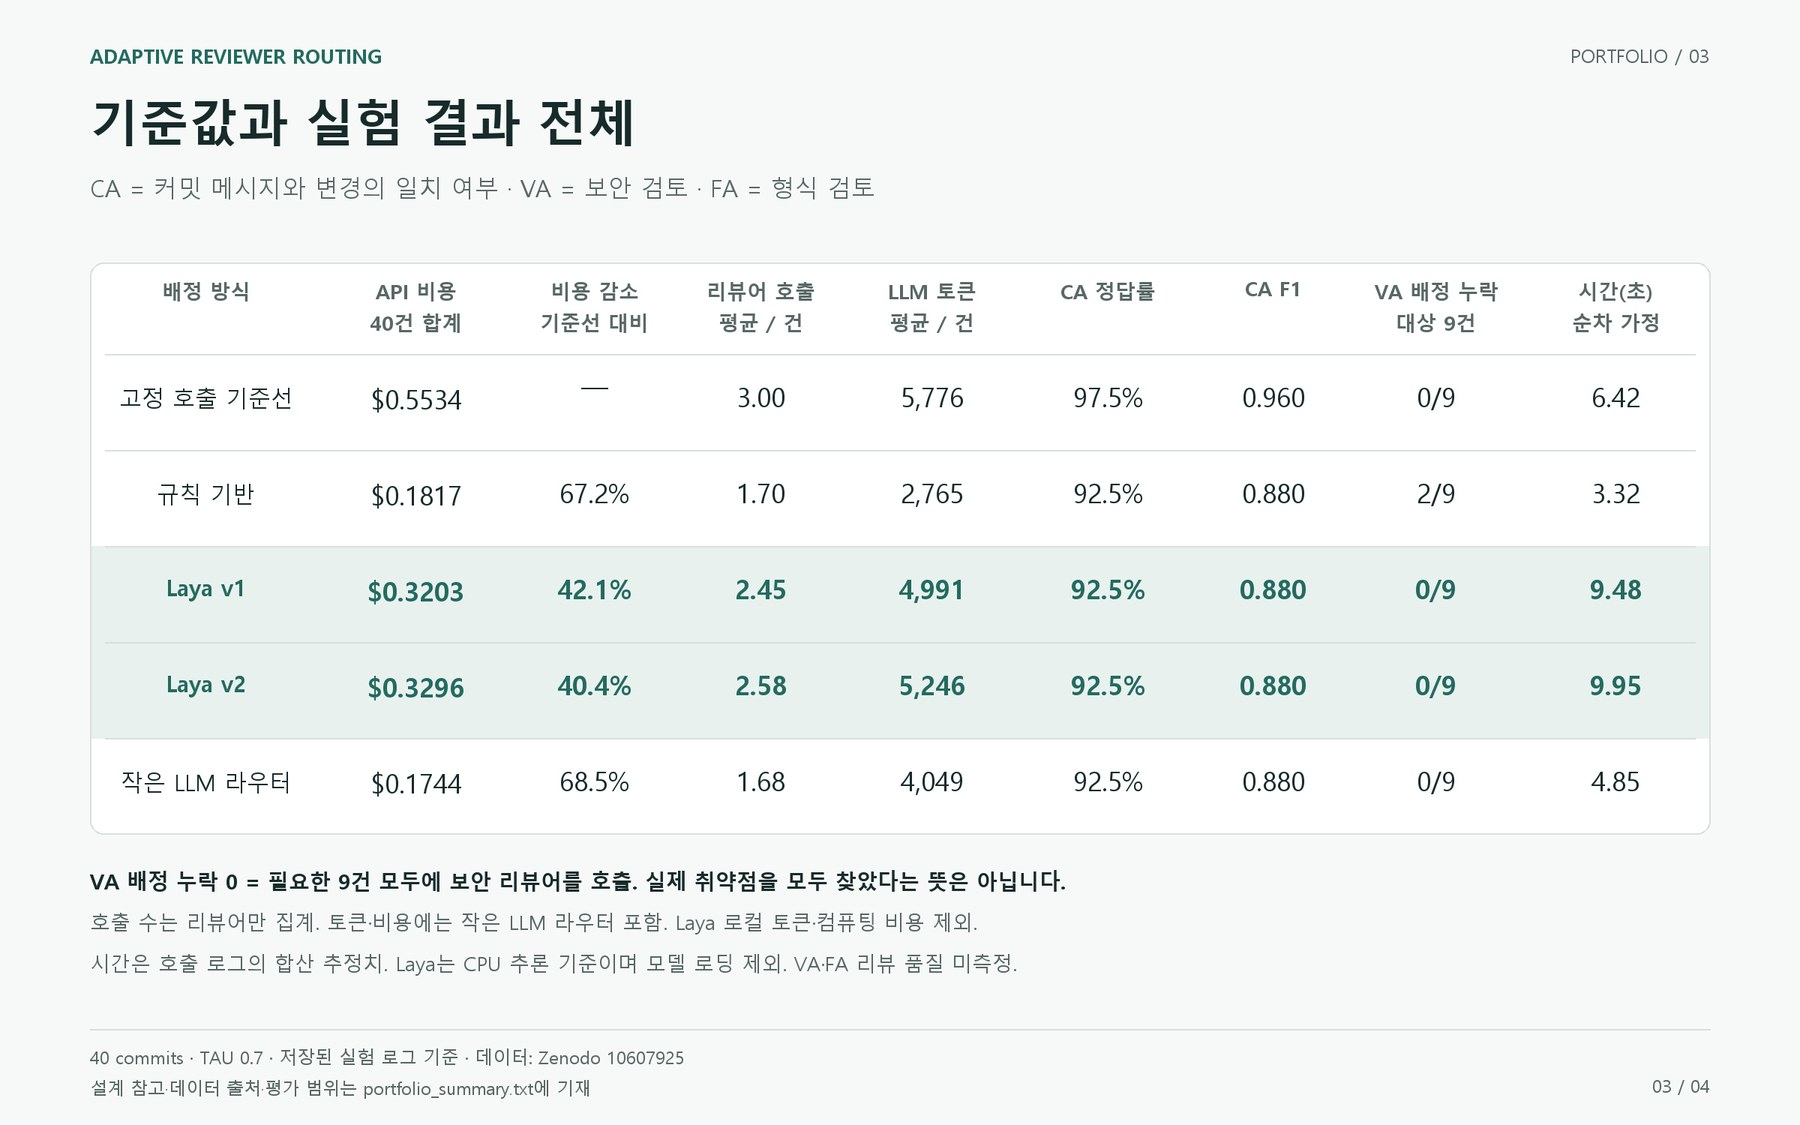
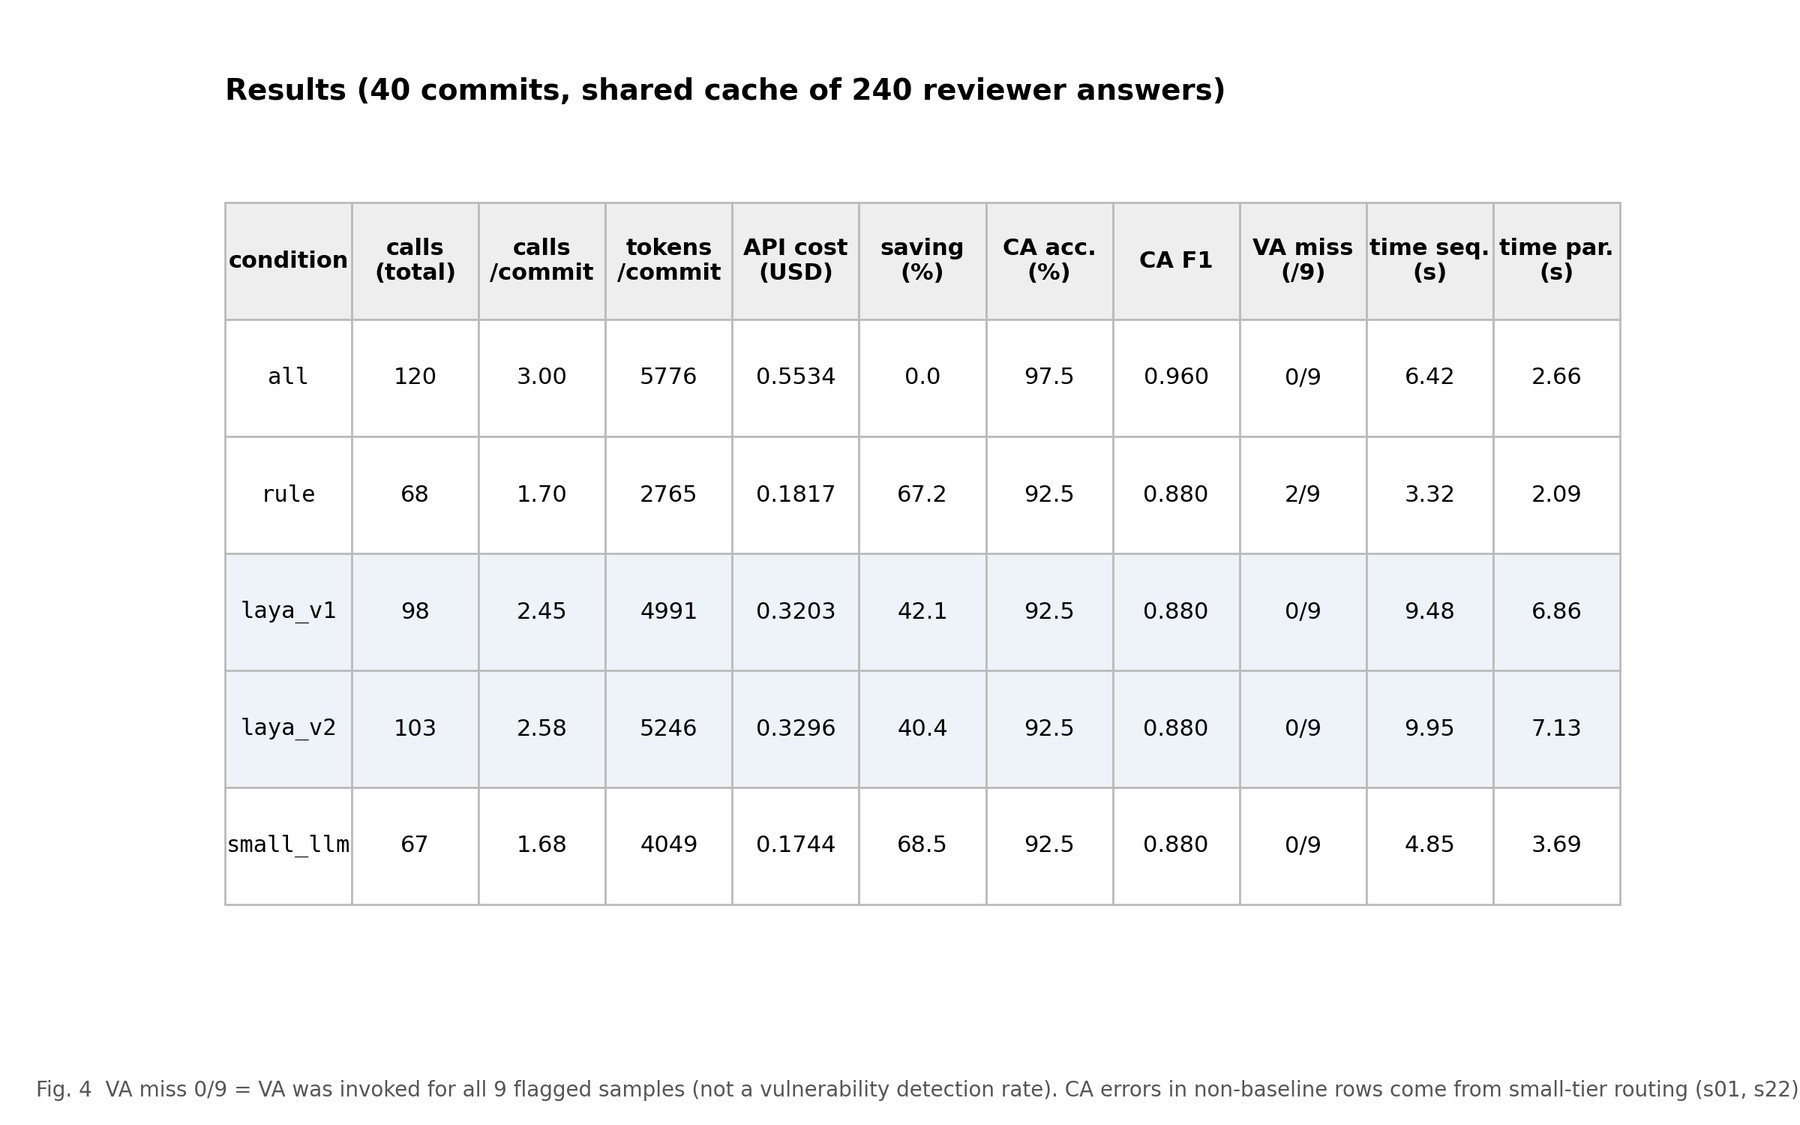
mdf:laya figures redrawn, sarangmoa slide order

diff --git a/src/app/templates/projects.html b/src/app/templates/projects.html
@@ -1366,20 +1366,16 @@
                         <button type="button" data-bs-target="#carouselExampleIndicators_sarangmoa" data-bs-slide-to="8" aria-label="Slide 9"></button>
                         <button type="button" data-bs-target="#carouselExampleIndicators_sarangmoa" data-bs-slide-to="9" aria-label="Slide 10"></button>
                         <button type="button" data-bs-target="#carouselExampleIndicators_sarangmoa" data-bs-slide-to="10" aria-label="Slide 11"></button>
-                        <button type="button" data-bs-target="#carouselExampleIndicators_sarangmoa" data-bs-slide-to="11" aria-label="Slide 12"></button>
                       </div>
                       <div class="carousel-inner">
                         <div class="carousel-item active">
+                          <img src="/static/images/sarangmoa_detail.jpg" class="d-block w-100" alt="Item detail">
+                        </div>
+                        <div class="carousel-item">
                           <img src="/static/images/sarangmoa_service.jpg" class="d-block w-100" alt="Donation service page">
                         </div>
                         <div class="carousel-item">
                           <img src="/static/images/sarangmoa_category.jpg" class="d-block w-100" alt="Donated items by category">
-                        </div>
-                        <div class="carousel-item">
-                          <img src="/static/images/sarangmoa_detail.jpg" class="d-block w-100" alt="Item detail">
-                        </div>
-                        <div class="carousel-item">
-                          <img src="/static/images/sarangmoa_goodex.jpg" class="d-block w-100" alt="Good examples of donations">
                         </div>
                         <div class="carousel-item">
                           <img src="/static/images/sarangmoa_mypage.jpg" class="d-block w-100" alt="My page">
@@ -1474,16 +1470,16 @@
                       </div>
                       <div class="carousel-inner">
                         <div class="carousel-item active">
-                          <img src="/static/images/laya_overview.jpg" class="d-block w-100" alt="API cost reduced 40 to 42 percent with Laya routing">
+                          <img src="/static/images/laya_design.jpg" class="d-block w-100" alt="Experiment design of the review harness">
                         </div>
                         <div class="carousel-item">
-                          <img src="/static/images/laya_flow.jpg" class="d-block w-100" alt="Review harness with a Laya decision step">
+                          <img src="/static/images/laya_cost.jpg" class="d-block w-100" alt="API cost by routing condition">
                         </div>
                         <div class="carousel-item">
-                          <img src="/static/images/laya_cost.jpg" class="d-block w-100" alt="API cost of five assignment strategies">
+                          <img src="/static/images/laya_calls.jpg" class="d-block w-100" alt="Reviewer calls and latency by condition">
                         </div>
                         <div class="carousel-item">
-                          <img src="/static/images/laya_table.jpg" class="d-block w-100" alt="Full experiment results table">
+                          <img src="/static/images/laya_table.jpg" class="d-block w-100" alt="Full results table">
                         </div>
                       </div>
                       <button class="carousel-control-prev" type="button" data-bs-target="#carouselExampleIndicators_laya" data-bs-slide="prev">

diff --git a/src/app/static/css/projects.css b/src/app/static/css/projects.css
@@ -172,7 +172,7 @@ a {
 }
 
 .laya_banner {
-    background-image: url(../images/laya_cost.jpg);
+    background-image: url(../images/laya_design.jpg);
 }
 
 .tosel_lab_platform_sec,
